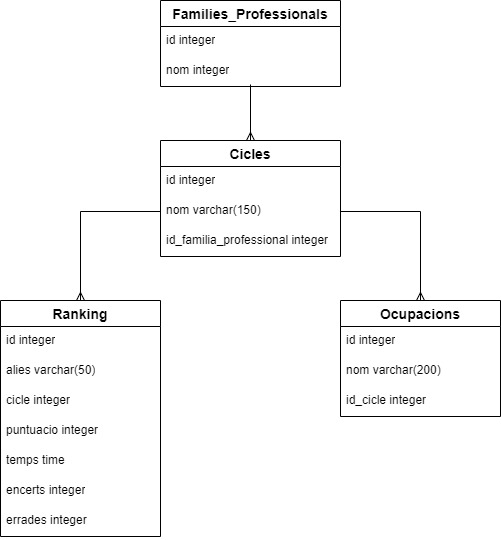
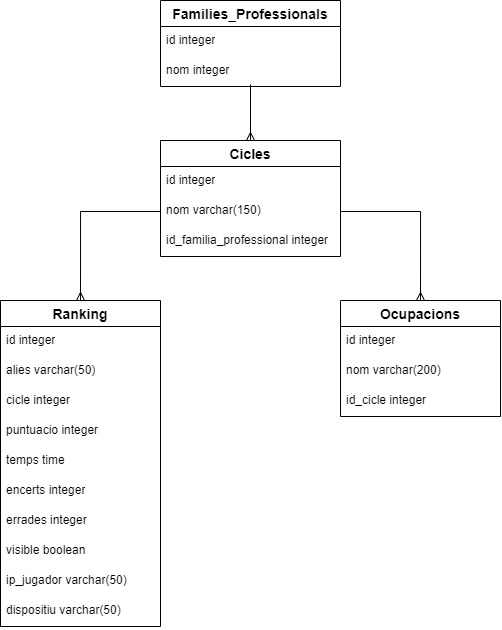
Cambio wiki

Changed region(s): [[0.0, 0.0, 0.8383, 1.0], [0.6587, 0.4444, 1.0, 0.7704], [0.8084, 0.3852, 0.8383, 0.4148]]

diff --git a/Wiki/wiki.html b/Wiki/wiki.html
@@ -65,6 +65,9 @@
           <li><strong>temps: </strong>El temps que ha trigat el jugador a arribar als tòtems necessaris per acabar.</li>
           <li><strong>encerts: </strong>Número de tòtems agafats que pertanyen a la seva família professional.</li>
           <li><strong>errades: </strong>Número de tòtems agafats que NO pertanyen a la seva família professional.</li>
+          <li><strong>visible: </strong>Indicarà si el record es podrà veure al ranking.</li>
+          <li><strong>ip_jugador: </strong>És la ip del jugador.</li>
+          <li><strong>dispositiu: </strong>El nombre del dispositiu que ha utilitzat el jugador.</li>
         </ul>
         <img src="assets/Imgs/IPOP_BD.jpg">
     </div>
